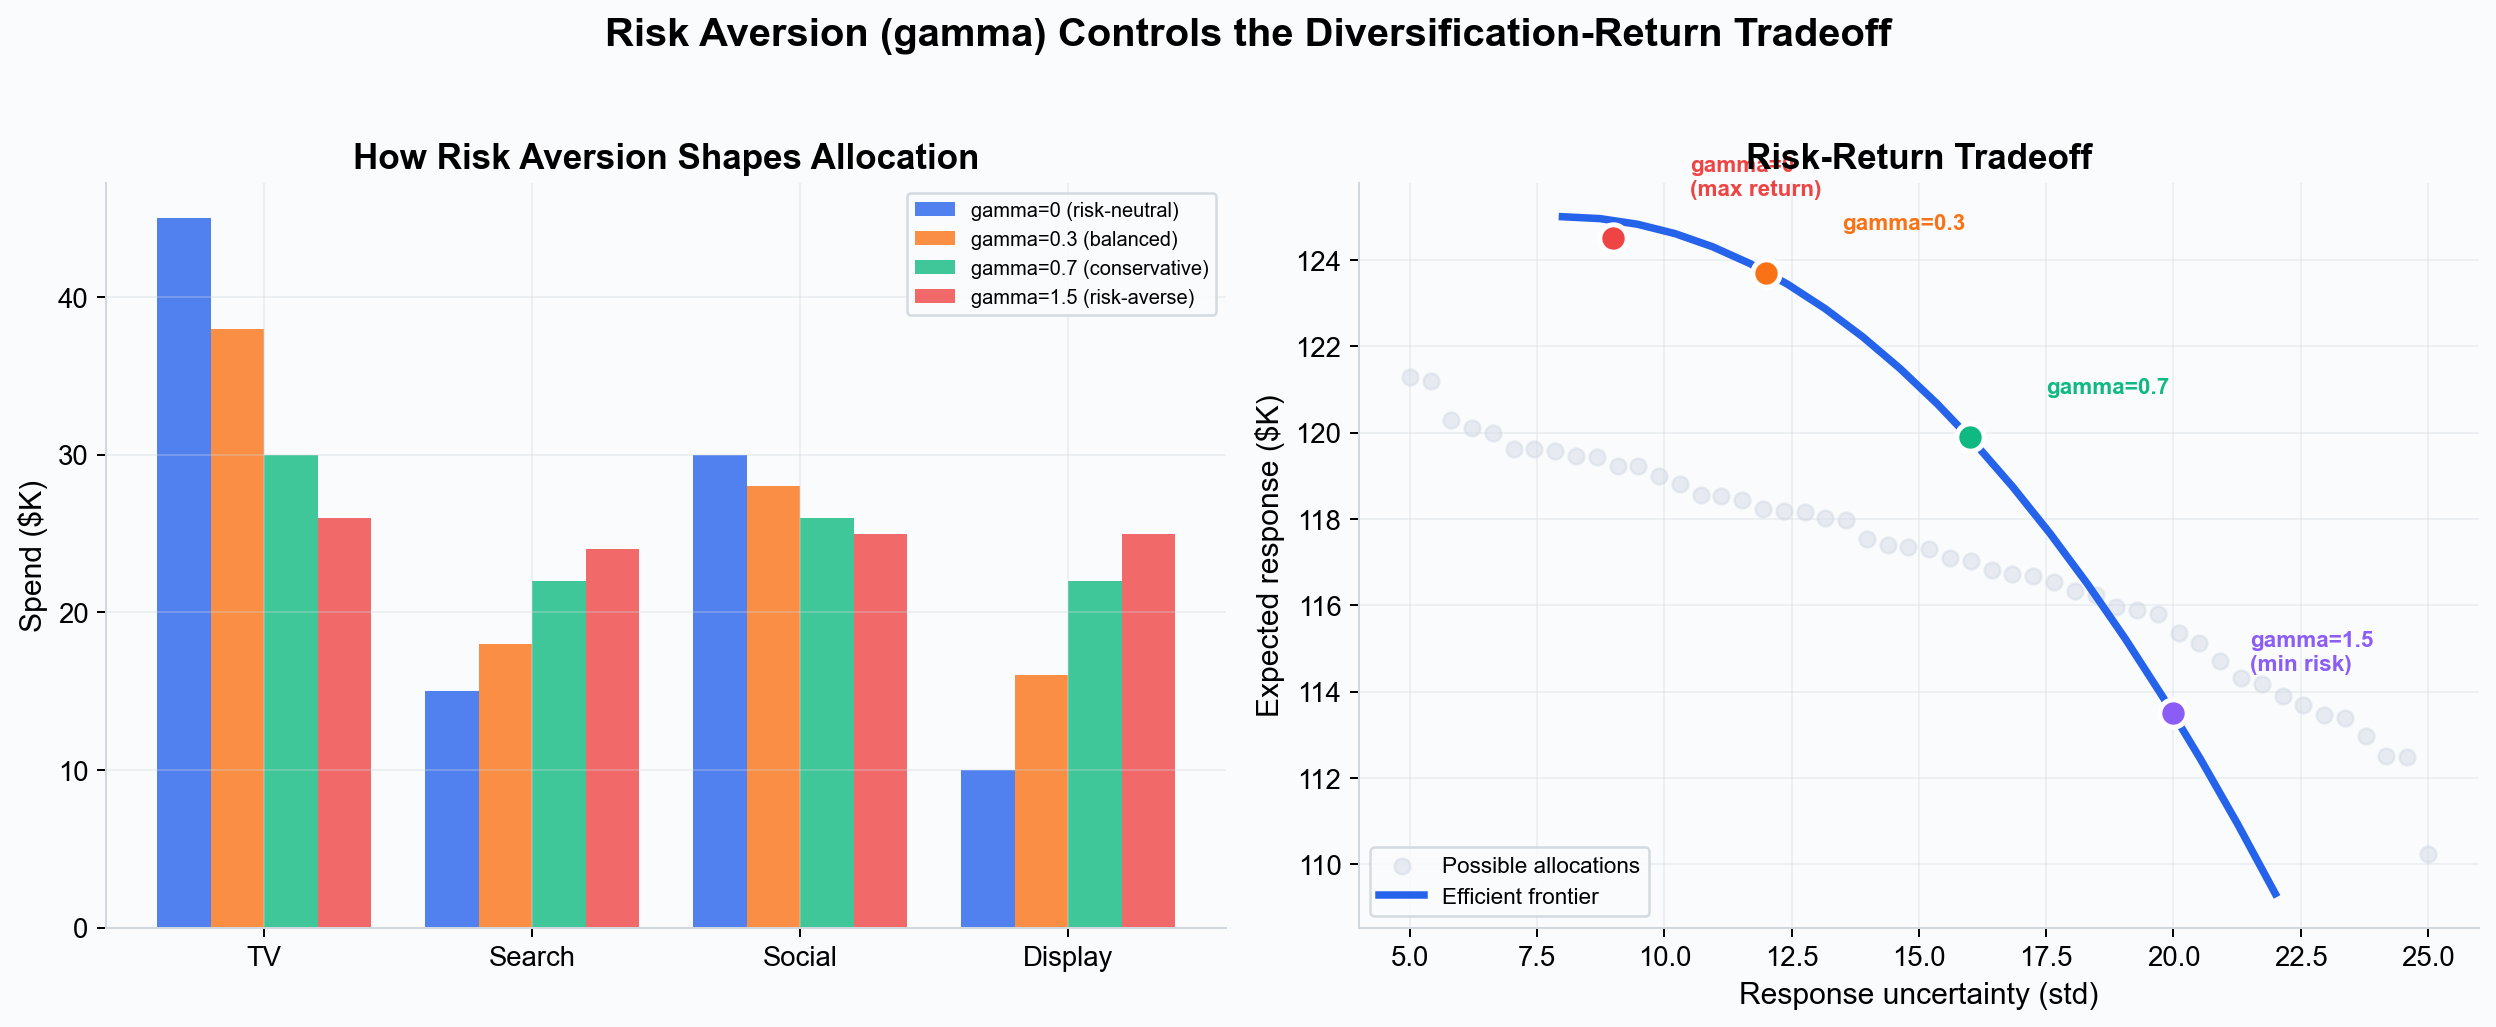
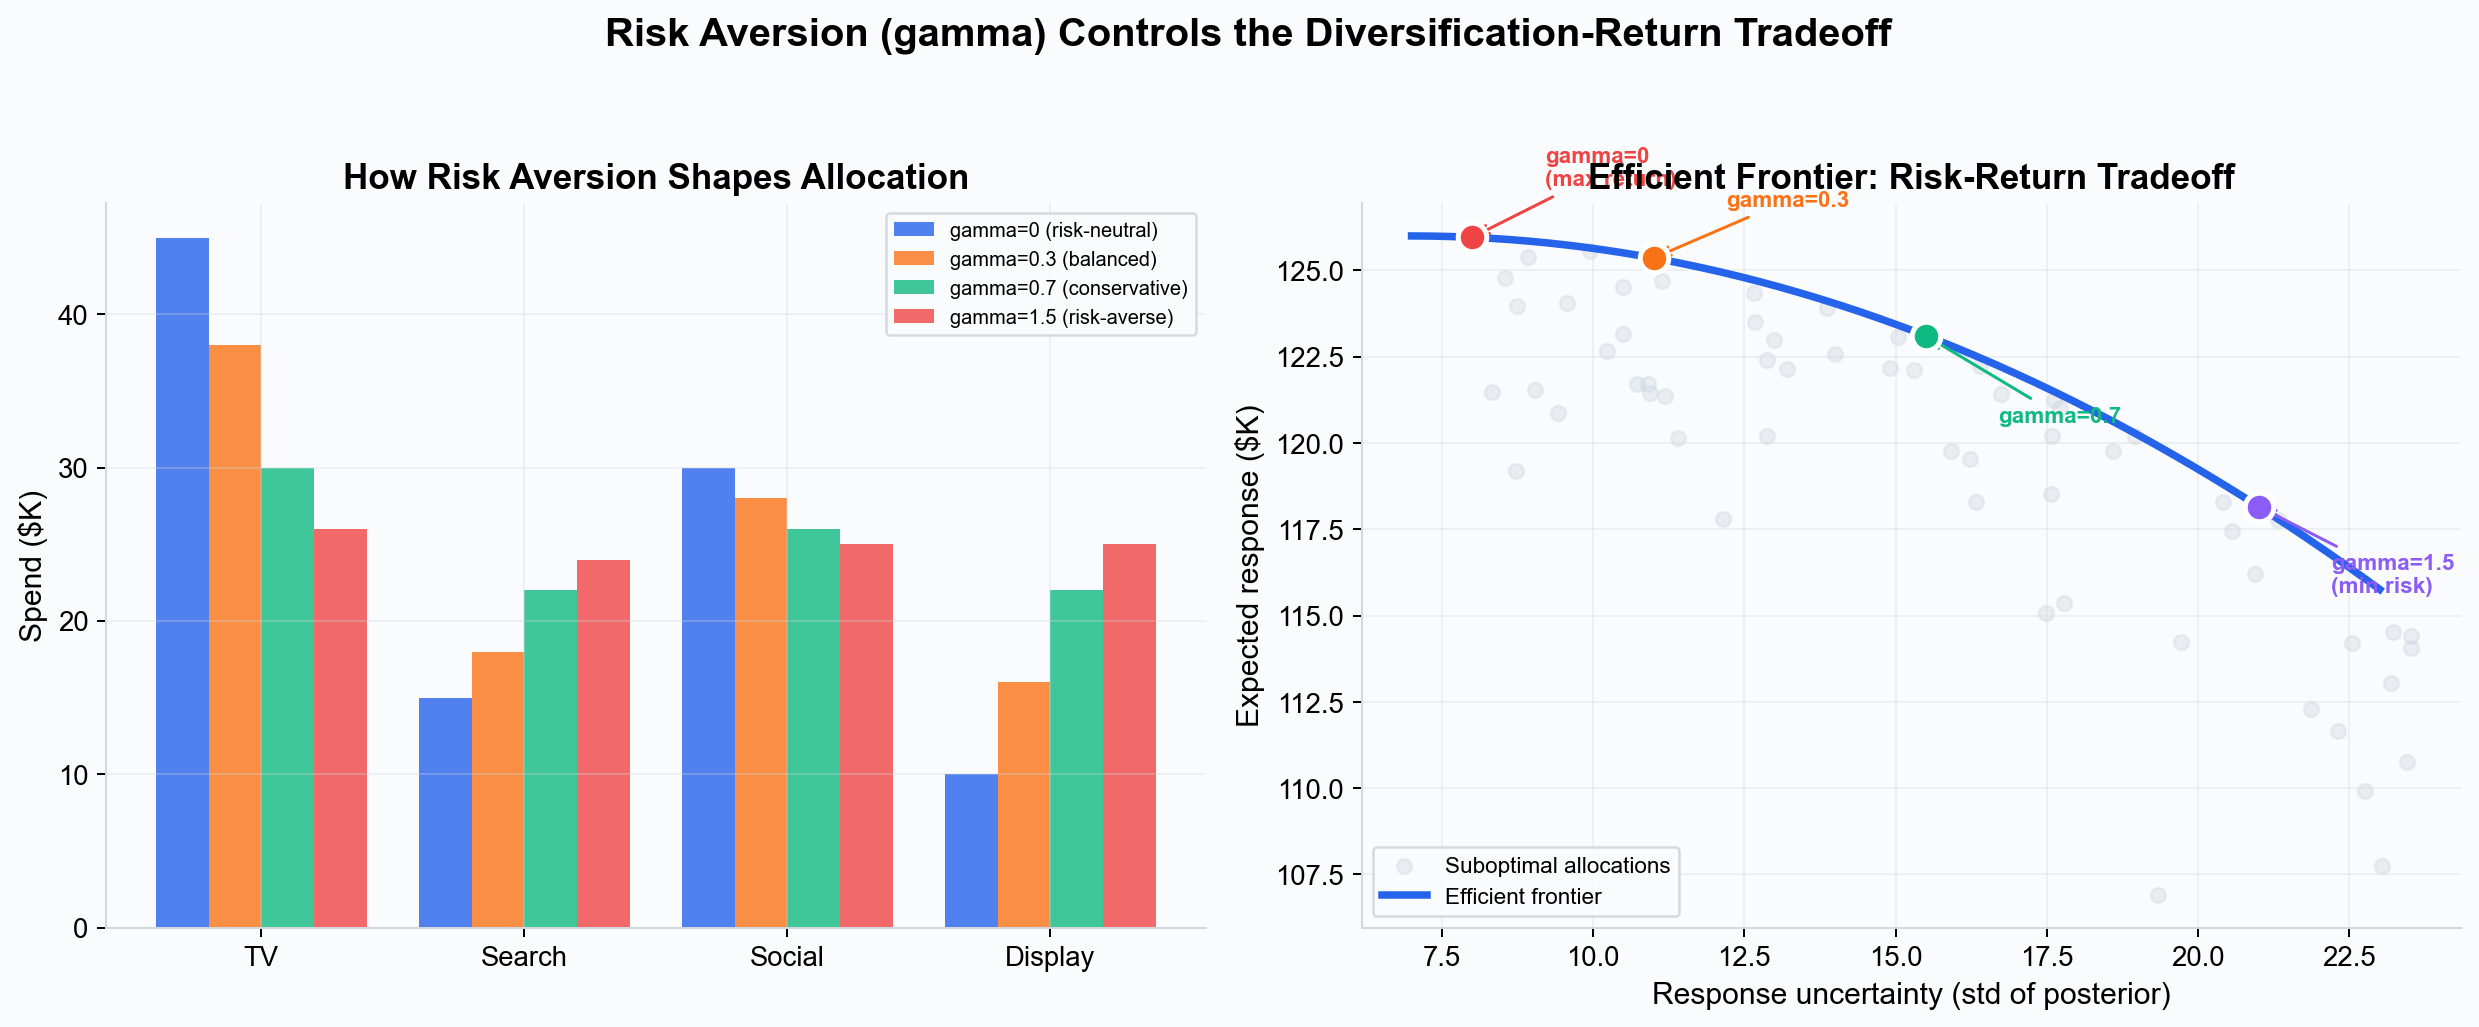
docs: fix frontier dots, expand gamma theory with Markowitz background
Chart fix:
- All four gamma dots now sit exactly on the efficient frontier curve
- Suboptimal allocations shown as grey dots below the frontier

Gamma theory expanded:
- Added "Theory Behind Gamma" section explaining Modern Portfolio Theory origin
- Explained efficient frontier concept and how gamma maps to frontier slope
- Expanded table with richer "What It Means" descriptions
- Added "Why Uncertainty Matters" section explaining how gamma prevents
  over-investing in channels with wide credible intervals

diff --git a/docs/core-concepts/budget-optimization.md b/docs/core-concepts/budget-optimization.md
@@ -44,16 +44,28 @@ This is a **mean-variance optimization** framework, similar in spirit to Markowi
 The gamma parameter lets you choose where you want to sit on the risk-return tradeoff:
 
 ![Risk-return tradeoff](./images/optimization-risk-return.png)
-*Left: as gamma increases, the allocation becomes more diversified --- spreading budget more evenly across channels to reduce uncertainty. Right: the efficient frontier shows the tradeoff between expected return and uncertainty. Higher gamma moves you down and to the right (lower return, lower risk).*
+*Left: as gamma increases, the allocation becomes more diversified --- spreading budget more evenly across channels. Right: the efficient frontier shows the tradeoff. Each gamma value corresponds to a point on the frontier --- higher gamma trades expected return for lower uncertainty.*
 
-| Gamma | Behavior | When to Use |
+### The Theory Behind Gamma
+
+The mean-variance framework comes from **Modern Portfolio Theory** (Markowitz, 1952), originally developed for financial portfolio allocation. The core insight transfers directly to media budgets: just as a financial investor balances expected return against portfolio volatility, a media planner balances expected revenue against the uncertainty in the model's predictions.
+
+The objective `maximize(mean - gamma x std)` is equivalent to finding the point on the **efficient frontier** where the slope equals `1/gamma`. The efficient frontier is the set of allocations where no reallocation can increase expected return without also increasing uncertainty (or vice versa). Every point below the frontier is suboptimal --- there exists a frontier allocation with the same risk but higher return.
+
+Gamma controls where you land on this frontier:
+
+| Gamma | Behavior | What It Means |
 |---|---|---|
-| **0** | Risk-neutral --- maximize expected return only | When you trust the model estimates and want the most aggressive allocation |
-| **0.3** | Balanced --- moderate diversification | Good default for most use cases |
-| **0.7** | Conservative --- penalizes uncertain channels | When some channels have wide posterior intervals and you want stability |
-| **> 1.0** | Risk-averse --- strong diversification | When model uncertainty is high or you need predictable outcomes |
+| **0** | Risk-neutral | Maximize expected return only. Concentrates budget in the channels with highest estimated ROI, regardless of how uncertain those estimates are. Best when you trust the model and want maximum upside. |
+| **0.3** | Balanced | Good default. Moderately penalizes uncertain channels, producing a diversified but not timid allocation. |
+| **0.7** | Conservative | Noticeably shifts budget toward channels with tighter posterior intervals. Use when some channels have wide uncertainty (e.g., new channels with limited data). |
+| **> 1.0** | Risk-averse | Strong diversification. Approaches equal allocation across channels. Use when model uncertainty is high overall or when you need predictable quarter-over-quarter performance. |
 
-As gamma increases, the optimizer shifts budget away from channels with wide uncertainty bands toward channels with more reliable estimates, even if those channels have slightly lower expected returns.
+### Why Uncertainty Matters for Budget Decisions
+
+Without gamma, the optimizer would put disproportionate budget into a channel whose coefficient happens to have a high posterior mean --- even if that mean comes with a huge credible interval (e.g., coefficient = 0.3 with 94% HDI of [0.01, 0.8]). That channel might actually be mediocre; the high mean could be driven by a few noisy data points.
+
+With gamma > 0, the optimizer sees the full posterior distribution and naturally avoids over-investing in channels where the model is unsure. This produces allocations that perform well across the range of plausible parameter values, not just at the posterior mean.
 
 ---
 
